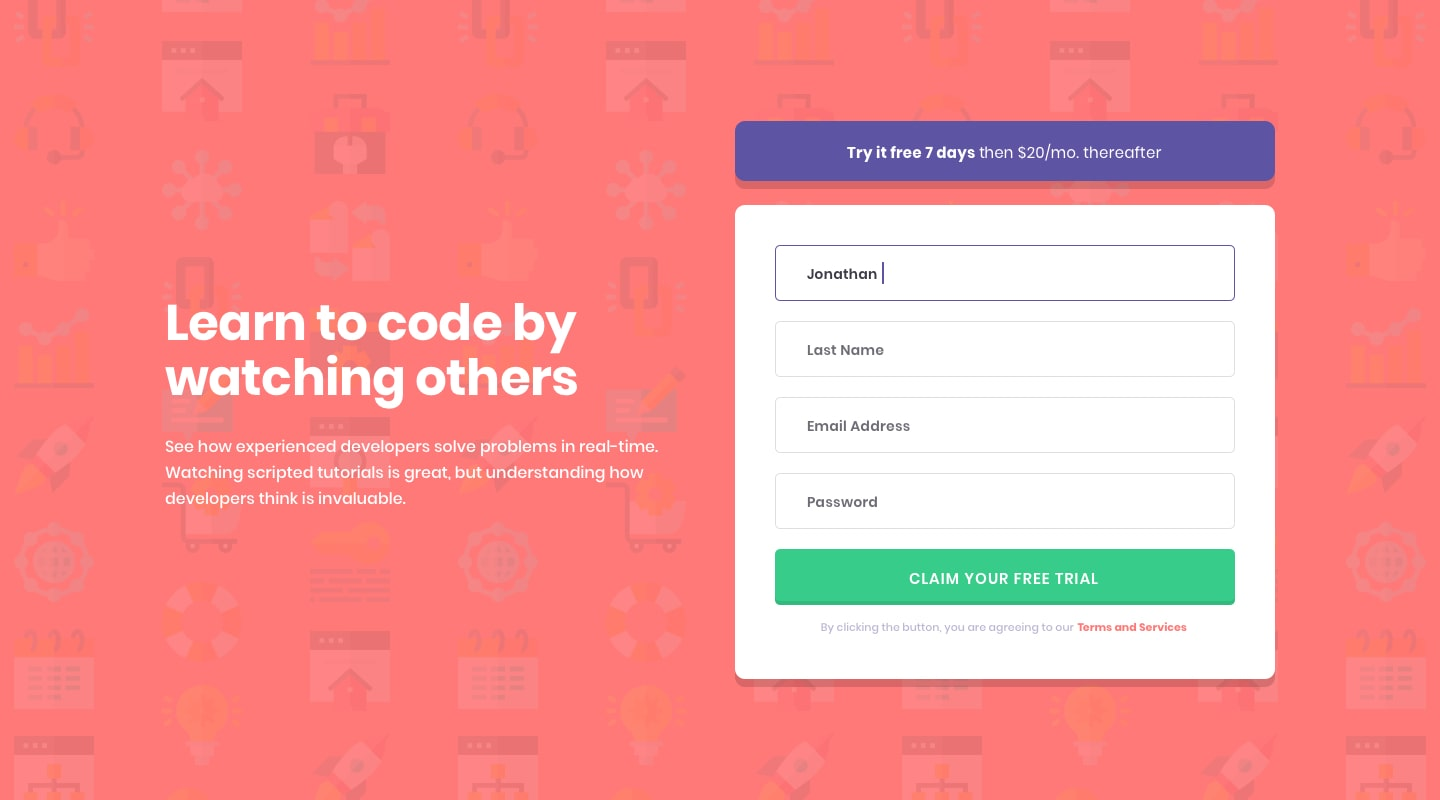
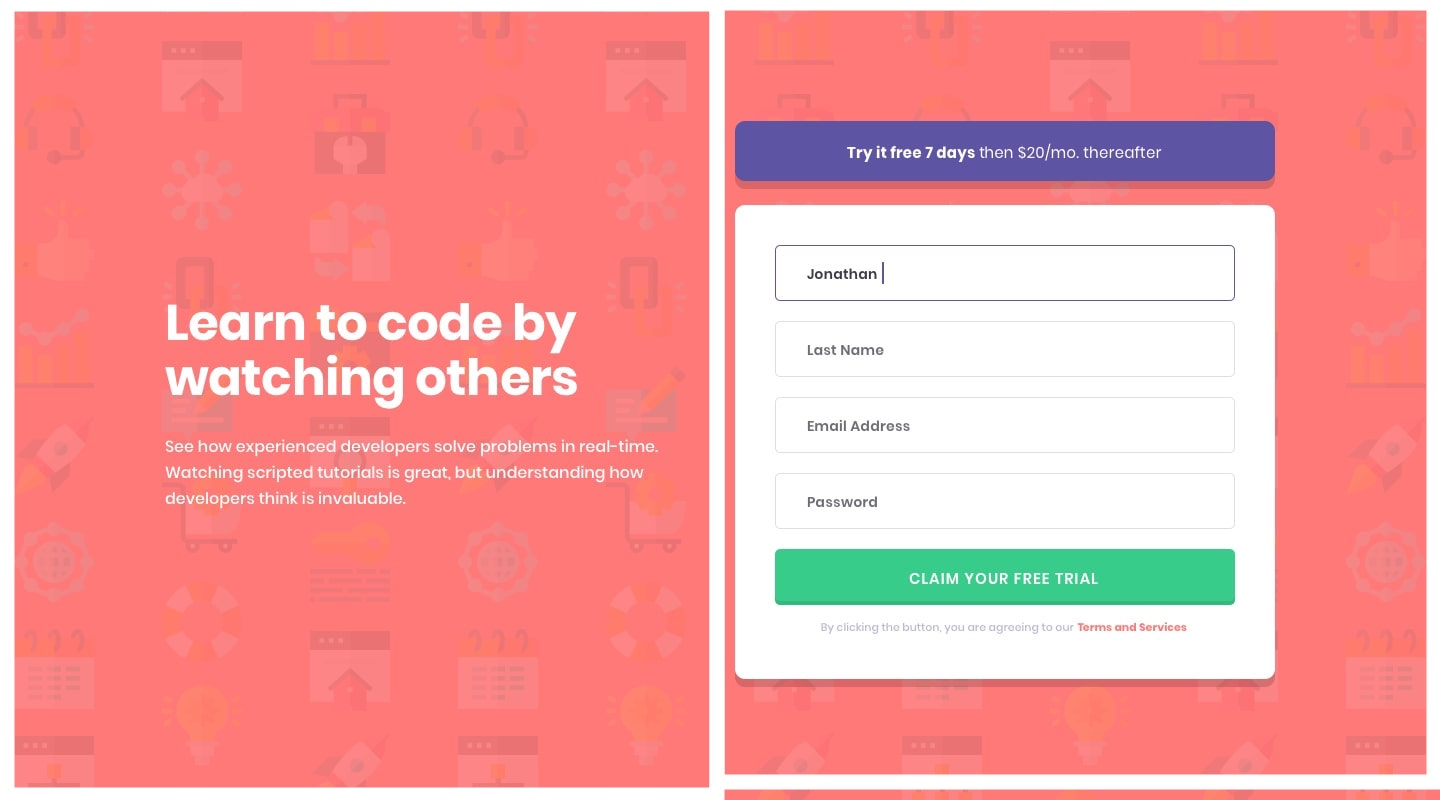
finish

Changed region(s): [[0.0, 0.0, 1.0, 1.0]]

diff --git a/index.html b/index.html
@@ -1,40 +1,58 @@
 <!DOCTYPE html>
 <html lang="en">
-<head>
-  <meta charset="UTF-8">
-  <meta name="viewport" content="width=device-width, initial-scale=1.0"> <!-- displays site properly based on user's device -->
+  <head>
+    <meta charset="UTF-8" />
+    <meta name="viewport" content="width=device-width, initial-scale=1.0" />
+    <!-- displays site properly based on user's device -->
 
-  <link rel="icon" type="image/png" sizes="32x32" href="./images/favicon-32x32.png">
-  
-  <title>Frontend Mentor | Intro component with sign up form</title>
+    <link
+      rel="icon"
+      type="image/png"
+      sizes="32x32"
+      href="./images/favicon-32x32.png"
+    />
 
-  <!-- Feel free to remove these styles or customise in your own stylesheet 👍 -->
-  <style>
-    .attribution { font-size: 11px; text-align: center; }
-    .attribution a { color: hsl(228, 45%, 44%); }
-  </style>
-  <link rel="stylesheet" href="index.css">
-</head>
-<body>
-  <div class="container">
-    <div class="left">
-      <h1>Learn to code by watching others</h1>
-      <p>See how experienced developers solve problems in real-time. Watching scripted tutorials is great, 
-      but understanding how developers think is invaluable.<p>
-    </div>
-    <div class="right">
-      <div class="blue-box"><div>Try it free 7 days</div> then $20/mo. thereafter</div>
-          <form>
-            <input id="first-name" type="text" placeholder="First Name"/>
-            <input type="text" placeholder="Last Name"/>
-            <input type="email" placeholder="Email Address"/>
-            <input type="password" placeholder="Password"/>
+    <title>Frontend Mentor | Intro component with sign up form</title>
 
-            <input id="submit" type="submit" value="Claim your free trial"/>
-
-            <div class="terms">By clicking the button, you are agreeing to our <div>Terms and Services</div></div>
-          </form>
+    <!-- Feel free to remove these styles or customise in your own stylesheet 👍 -->
+    <style>
+      .attribution {
+        font-size: 11px;
+        text-align: center;
+      }
+      .attribution a {
+        color: hsl(228, 45%, 44%);
+      }
+    </style>
+    <link rel="stylesheet" href="index.css" />
+  </head>
+  <body>
+    <div class="container">
+      <div class="left">
+        <h1>Learn to code by watching others</h1>
+        <p>
+          See how experienced developers solve problems in real-time. Watching
+          scripted tutorials is great, but understanding how developers think is
+          invaluable.
+        </p>
       </div>
-  </div>
-</body>
+      <div class="right">
+        <div class="blue-box">
+          <div>Try it free 7 days</div>
+          then $20/mo. thereafter
+        </div>
+        <form>
+          <input id="first-name" type="text" placeholder="First Name" />
+          <input type="text" placeholder="Last Name" />
+          <input type="email" placeholder="Email Address" />
+          <input type="password" placeholder="Password" />
+          <input id="submit" type="submit" value="Claim your free trial" />
+          <div class="terms">
+            By clicking the button, you are agreeing to our
+            <div>Terms and Services</div>
+          </div>
+        </form>
+      </div>
+    </div>
+  </body>
 </html>

diff --git a/index.css b/index.css
@@ -1,8 +1,12 @@
+@import url('https://fonts.googleapis.com/css2?family=Poppins:wght@400;500;600;700&display=swap');
+/* Moblie view */
 body {
   background-image: url("./images/bg-intro-mobile.png");
   background-color: #ff7b81;
   margin: 0;
   padding: 0;
+  font-family: 'Poppins', sans-serif;
+  font-weight: 400;
 }
 h1 {
   margin-top: 80px;
@@ -19,15 +23,15 @@ p,
 
 p {
   font-size: 20px;
-  color: white;
+  color: #FFE2E2;
   text-align: center;
   margin-left: 30px;
   margin-right: 30px;
 }
 
 .blue-box div {
-    display: inline-block;
-    font-weight: 200;
+  display: inline-block;
+  font-weight: 600;
 }
 
 .blue-box {
@@ -42,10 +46,10 @@ p {
   background-color: #6065af;
   color: white;
   border-radius: 10px;
-  box-shadow: 0px 10px 1px rgba(0, 0, 0, 0.2);
+  box-shadow: 0px 8px 1px rgba(0, 0, 0, 0.2);
 }
 input {
-    font-size: 15px;
+  font-size: 15px;
   box-sizing: border-box;
   border-radius: 8px;
   border: solid 1px rgba(128, 128, 128, 0.425);
@@ -58,12 +62,17 @@ input {
 }
 
 #submit {
+  cursor: pointer;
+  letter-spacing: 2px;
+  padding-left: 0px;
+  padding-right: 0px;
+  padding-top: 9px;
   font-size: medium;
   text-transform: uppercase;
   color: white;
   border: none;
-  background-color: rgb(89, 173, 89);
-  box-shadow: 0 10px 1px green;
+  background-color: #39CC8A;
+  box-shadow: 0 4px 1px #3FB27F;
 }
 
 form {
@@ -75,10 +84,11 @@ form {
   background-color: white;
   padding-bottom: 10px;
   margin-bottom: 40px;
+  box-shadow: 0 8px 1px  rgba(0, 0, 0, 0.2);
 }
 
 .terms {
-  color: grey;
+  color: #CAC8D3;
   font-size: 12px;
   text-align: center;
   margin-top: 20px;
@@ -87,5 +97,42 @@ form {
 }
 
 .terms div {
+  cursor: pointer;
+  display: inline;
   color: red;
+  font-weight: 500;
+}
+
+/* Desktop view */
+@media (min-width: 1025px) {
+  body{
+    height: 100vh;
+    display: flex;
+    flex-direction: row;
+    justify-content: center;
+    align-items: center;
+  }
+
+  .left{
+    display: flex;
+    flex-direction: column;
+    justify-content: center;
+  }
+
+  .left h1{
+    font-size: 55px;
+  }
+  .left *{
+    margin-left: 0;
+    text-align: left;
+  }
+
+  .container {
+    min-width: 1160px;
+    max-width: 1300px;
+    width: 85%;
+    display: grid;
+    grid-template-rows: auto;
+    grid-template-columns: 45% 55%;
+  }
 }
